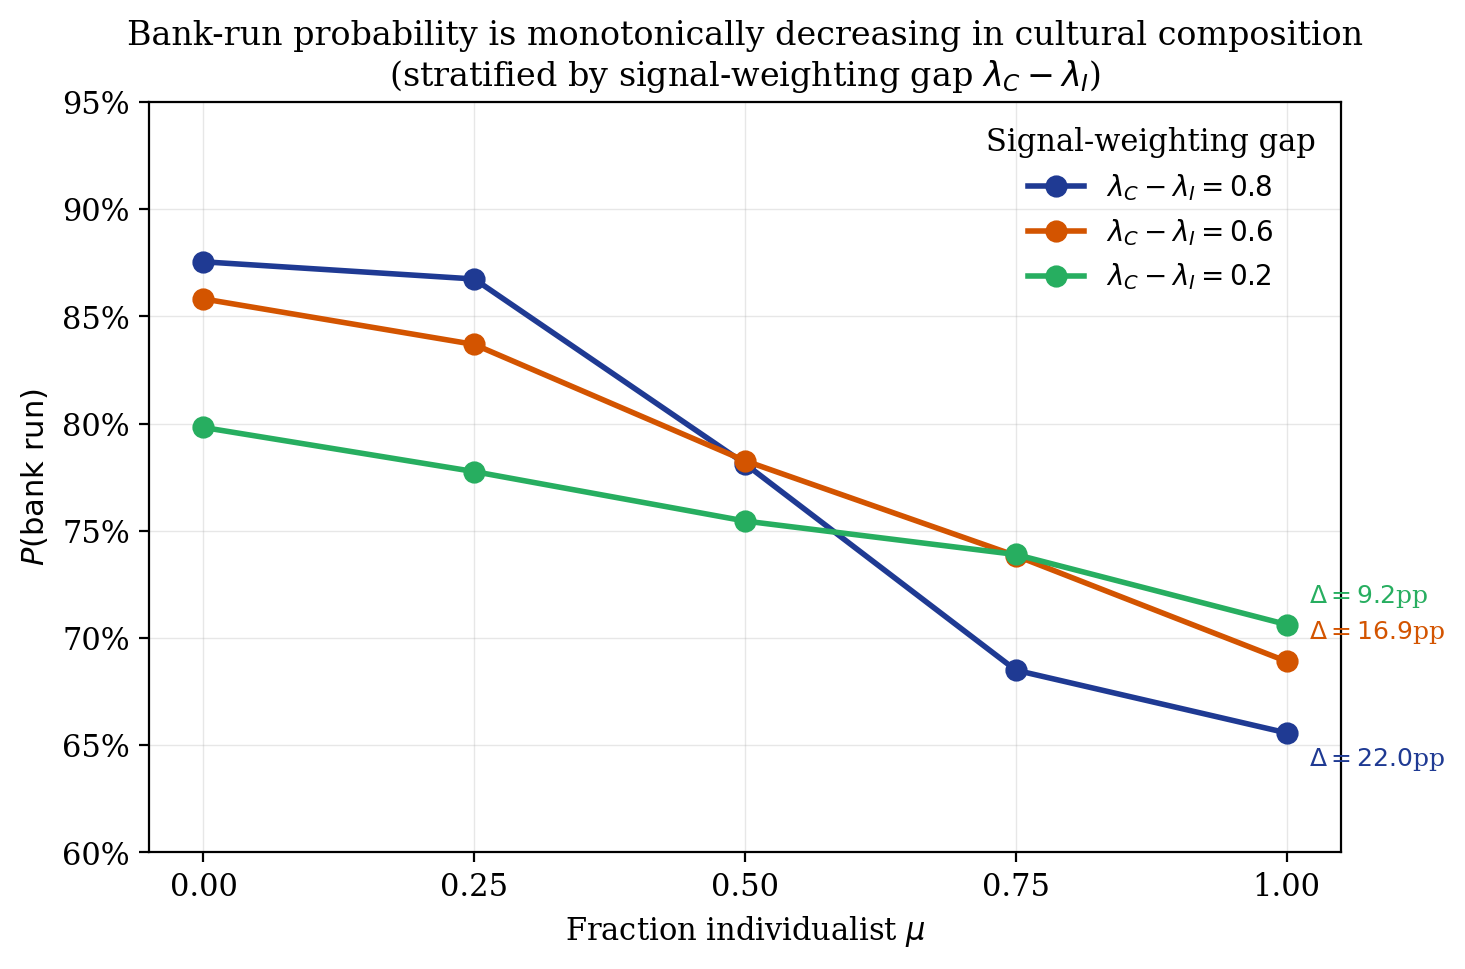
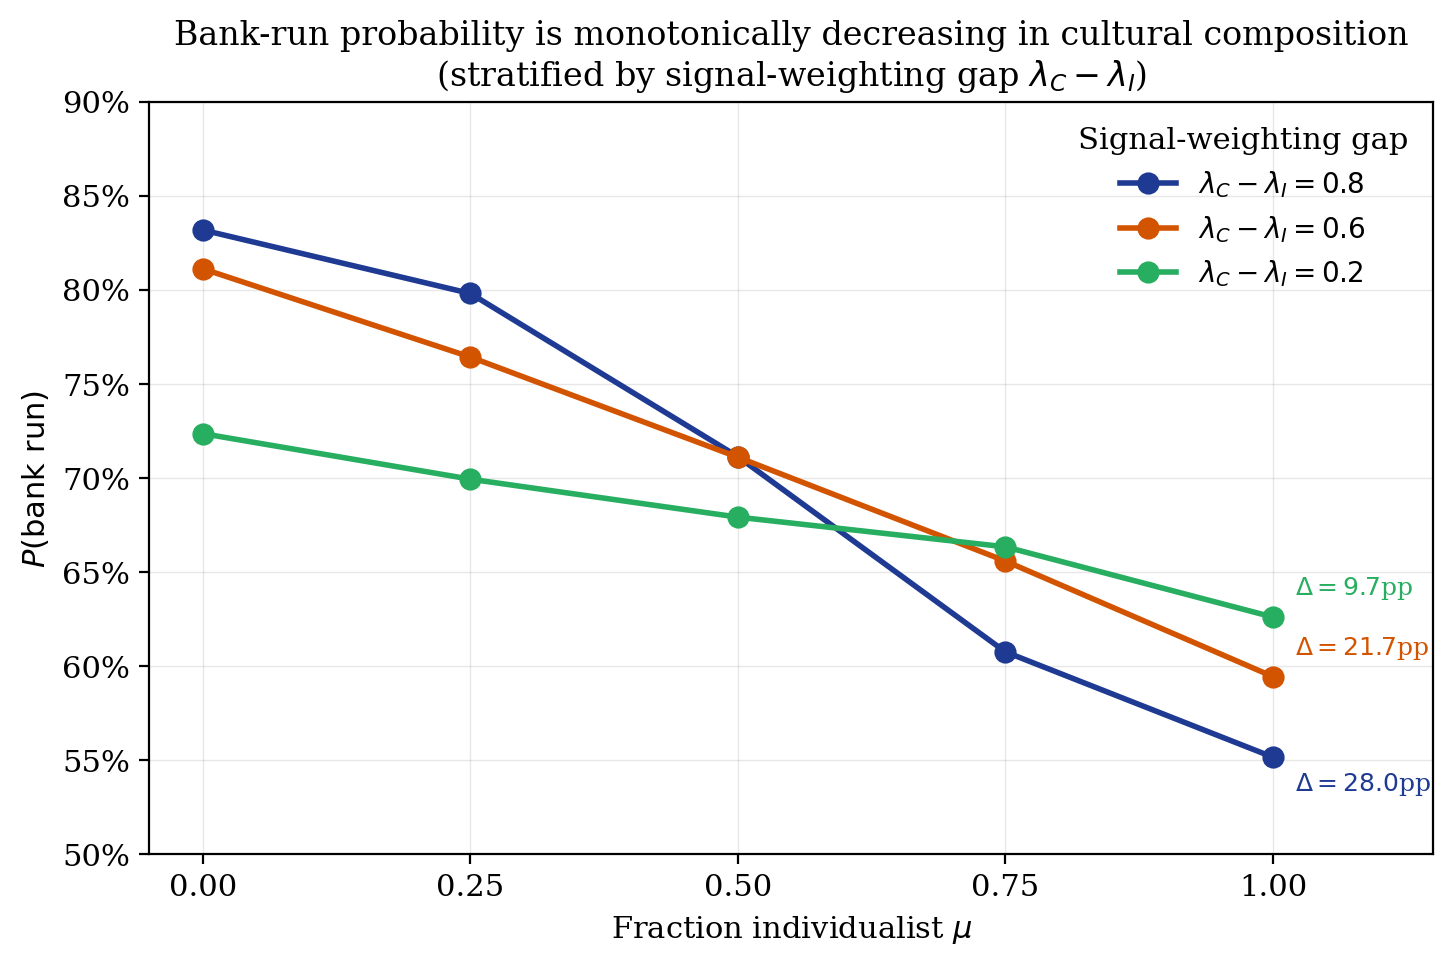
Figures 1-2 from outputs/production (correct header); reserve null was a column-shift artefact
The Apr 13 outputs/consolidated_results.csv has a header shifted by one
column, so its "reserveRatio" held network p. Fig 2 now plots all six
reserve levels; Fig 1's y-range no longer clips mu = 1.

diff --git a/scripts/make_figures.py b/scripts/make_figures.py
@@ -1,14 +1,17 @@
 """
 make_figures.py — Chapter 3 §6.6 + theory §4.6 figures.
 
-Produces three figures from outputs/consolidated_results.csv:
+Produces three figures from outputs/production/consolidated_results.csv:
 
     fig1_p6a_headline.png       P(run) vs mu × lambda-gap, collapsed across
                                 reserve. The headline P6a confirmation.
 
     fig2_reserve_null.png       P(run) vs mu × reserve ratio, collapsed across
-                                lambda gap. Demonstrates the reserve null that
-                                supports the cascade-saturation framing.
+                                lambda gap. (Filename kept for the chapter's
+                                includegraphics; the "reserve null" was an
+                                artefact of the shifted header in the old
+                                outputs/consolidated_results.csv, where the
+                                "reserveRatio" column held network p.)
 
     fig4_p6a_p6b_schematic.png  Two-panel pedagogical schematic. Left: hypothetical
                                 moderate-regime curve with both channels (P6a
@@ -29,7 +32,10 @@ import matplotlib.pyplot as plt
 import numpy as np
 
 BASE = Path(__file__).resolve().parent.parent
-INPUT = BASE / "outputs" / "consolidated_results.csv"
+# The production file has the correct header (k, p, reserveRatio, depQuantile,
+# sigma, ...). Do not use outputs/consolidated_results.csv (Apr 13): its header
+# is shifted by one column, so "reserveRatio" there is network p.
+INPUT = BASE / "outputs" / "production" / "consolidated_results.csv"
 OUT_DIR = BASE / "outputs" / "analysis"
 OUT_DIR.mkdir(parents=True, exist_ok=True)
 
@@ -90,9 +96,10 @@ def figure_1_headline(cells):
         r"(stratified by signal-weighting gap $\lambda_C - \lambda_I$)"
     )
     ax.set_xticks(mus)
-    ax.set_yticks(np.arange(0.5, 1.01, 0.05))
-    ax.set_yticklabels([f"{int(t * 100)}%" for t in np.arange(0.5, 1.01, 0.05)])
-    ax.set_ylim(0.6, 0.95)
+    ax.set_yticks(np.arange(0.5, 0.901, 0.05))
+    ax.set_yticklabels([f"{int(round(t * 100))}%" for t in np.arange(0.5, 0.901, 0.05)])
+    ax.set_ylim(0.5, 0.9)
+    ax.set_xlim(-0.05, 1.15)
     ax.legend(loc="upper right", frameon=False, title="Signal-weighting gap")
     ax.grid(True, alpha=0.3, linewidth=0.5)
 
@@ -113,8 +120,8 @@ def figure_2_reserve_null(cells):
     reserves = sorted({k[1] for k in by_mu_rr})
 
     fig, ax = plt.subplots(figsize=(7.5, 5))
-    colors = ["#c0392b", "#8e44ad"]
-    markers = ["o", "s"]
+    colors = plt.cm.viridis(np.linspace(0.0, 0.85, len(reserves)))
+    markers = ["o", "s", "^", "D", "v", "P"]
     for rr, color, marker in zip(reserves, colors, markers):
         rates = [by_mu_rr[(m, rr)]["runs"] / by_mu_rr[(m, rr)]["completed"]
                  for m in mus]
@@ -124,14 +131,14 @@ def figure_2_reserve_null(cells):
     ax.set_xlabel(r"Fraction individualist $\mu$")
     ax.set_ylabel(r"$P(\mathrm{bank\ run})$")
     ax.set_title(
-        "Reserve-ratio interaction is approximately null in the swept regime\n"
-        "(consistent with cascade-pressure saturation; cultural channel dominates)"
+        "Bank-run probability by cultural composition and reserve ratio\n"
+        r"(pooled across signal-weighting gap $\lambda_C - \lambda_I$)"
     )
     ax.set_xticks(mus)
-    ax.set_yticks(np.arange(0.5, 1.01, 0.05))
-    ax.set_yticklabels([f"{int(t * 100)}%" for t in np.arange(0.5, 1.01, 0.05)])
-    ax.set_ylim(0.6, 0.95)
-    ax.legend(loc="upper right", frameon=False)
+    ax.set_yticks(np.arange(0.2, 1.01, 0.1))
+    ax.set_yticklabels([f"{int(round(t * 100))}%" for t in np.arange(0.2, 1.01, 0.1)])
+    ax.set_ylim(0.2, 1.0)
+    ax.legend(loc="lower left", frameon=False, ncol=2)
     ax.grid(True, alpha=0.3, linewidth=0.5)
 
     plt.tight_layout()
@@ -328,9 +335,9 @@ if __name__ == "__main__":
         with open(INPUT) as f:
             n_rows = sum(1 for _ in f) - 1
         print(f"Loaded consolidated_results.csv ({n_rows:,} rows)")
-        if n_rows < 600_000:
-            print("WARNING: row count below the post-fix expected ~709K.")
-            print("         Local CSV may be stale; rsync the latest from HPC.")
+        if n_rows < 540_000:
+            print("WARNING: row count below the production sweep's 540K")
+            print("         (2,160 cells x 250 runs). Local CSV may be stale.")
         cells = aggregate()
         figure_1_headline(cells)
         figure_2_reserve_null(cells)
